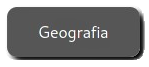
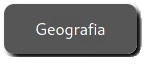
9 botoes colocados e fotos editadas

Changed region(s): [[0.0278, 0.0625, 1.0, 0.9062], [0.25, 0.3438, 0.75, 0.625]]

diff --git a/main.cpp b/main.cpp
@@ -113,12 +113,44 @@ int main(int argc, char *argv[]) {
   sf::Texture girlTexture;
   sf::Texture dialogoTexture;
   sf::Texture botaoHistoriaTexture;
+  sf::Texture botaoPsicologiaTexture;
+  sf::Texture botaoLetrasTexture;
+  sf::Texture botaoFilosofiaTexture;
+  sf::Texture botaoGeografiaTexture;
+  sf::Texture botaoMatematicaTexture;
+  sf::Texture botaoInformaticaTexture;
+  sf::Texture botaoQuimicaTexture;
+  sf::Texture botaoArteTexture;
   sf::Texture botaoHistoriaClicadoTexture;
+  sf::Texture botaoPsicologiaClicadoTexture;
+  sf::Texture botaoLetrasClicadoTexture;
+  sf::Texture botaoFilosofiaClicadoTexture;
+  sf::Texture botaoGeografiaClicadoTexture;
+  sf::Texture botaoMatematicaClicadoTexture;
+  sf::Texture botaoInformaticaClicadoTexture;
+  sf::Texture botaoQuimicaClicadoTexture;
+  sf::Texture botaoArteClicadoTexture;
   sf::Sprite background;
   sf::Sprite girl;
   sf::Sprite dialogo;
   sf::Sprite botao_historia;
+  sf::Sprite botao_psicologia;
+  sf::Sprite botao_letras;
+  sf::Sprite botao_filosofia;
+  sf::Sprite botao_geografia;
+  sf::Sprite botao_matematica;
+  sf::Sprite botao_informatica;
+  sf::Sprite botao_quimica;
+  sf::Sprite botao_arte;
   sf::Sprite botao_historia_clicado;
+  sf::Sprite botao_psicologia_clicado;
+  sf::Sprite botao_letras_clicado;
+  sf::Sprite botao_filosofia_clicado;
+  sf::Sprite botao_geografia_clicado;
+  sf::Sprite botao_matematica_clicado;
+  sf::Sprite botao_informatica_clicado;
+  sf::Sprite botao_quimica_clicado;
+  sf::Sprite botao_arte_clicado;
 
   if (!bgTexture.loadFromFile("./interface/assets/imagens/background.jpg")) {
     cout << "Erro: não foi possível carregar a imagem de background" << endl;
@@ -164,11 +196,112 @@ int main(int argc, char *argv[]) {
     100);
   }
 
-  if(!botaoHistoriaTexture.loadFromFile("./interface/assets/imagens/botoes/botoes_historia.png")){
-    cout << "Erro: não foi possível carregar a imagem da bela moça" << endl;
+  //botao historia
+  if(!botaoHistoriaTexture.loadFromFile("./interface/assets/imagens/botoes/botoes_historia.png")
+  || !botaoHistoriaClicadoTexture.loadFromFile("./interface/assets/imagens/botoes_clicados/botoes_clicados_historia.png")){
+    cout << "Erro: não foi possível carregar a imagem do botão história" << endl;
   }else{
     botao_historia.setTexture(botaoHistoriaTexture);
-    botao_historia.setPosition(400, 600);
+    botao_historia.setPosition(440, 600);
+
+    botao_historia_clicado.setTexture(botaoHistoriaClicadoTexture);
+    botao_historia_clicado.setPosition(440, 600);
+  }
+
+  //botao psicologia
+  if(!botaoPsicologiaTexture.loadFromFile("./interface/assets/imagens/botoes/botoes_psicologia.png")
+  || !botaoPsicologiaClicadoTexture.loadFromFile("./interface/assets/imagens/botoes_clicados/botoes_clicados_psicologia.png")){
+    cout << "Erro: não foi possível carregar a imagem do botão psicologia" << endl;
+  }else{
+    botao_psicologia.setTexture(botaoPsicologiaTexture);
+    botao_psicologia.setPosition(600, 600);
+
+    botao_psicologia_clicado.setTexture(botaoPsicologiaClicadoTexture);
+    botao_psicologia_clicado.setPosition(600, 600);
+  }
+
+  //botao letras
+  if(!botaoLetrasTexture.loadFromFile("./interface/assets/imagens/botoes/botoes_letras.png")
+  || !botaoLetrasClicadoTexture.loadFromFile("./interface/assets/imagens/botoes_clicados/botoes_clicados_letras.png")){
+    cout << "Erro: não foi possível carregar a imagem do botão letras" << endl;
+  }else{
+    botao_letras.setTexture(botaoLetrasTexture);
+    botao_letras.setPosition(770, 600);
+
+    botao_letras_clicado.setTexture(botaoLetrasClicadoTexture);
+    botao_letras_clicado.setPosition(770, 600);
+  }
+
+  //botao filosofia
+  if(!botaoFilosofiaTexture.loadFromFile("./interface/assets/imagens/botoes/botoes_filosofia.png")
+  || !botaoFilosofiaClicadoTexture.loadFromFile("./interface/assets/imagens/botoes_clicados/botoes_clicados_filosofia.png")){
+    cout << "Erro: não foi possível carregar a imagem do botão filosofia" << endl;
+  }else{
+    botao_filosofia.setTexture(botaoFilosofiaTexture);
+    botao_filosofia.setPosition(920, 600);
+
+    botao_filosofia_clicado.setTexture(botaoFilosofiaClicadoTexture);
+    botao_filosofia_clicado.setPosition(920, 600);
+  }
+
+  //botao geografia
+  if(!botaoGeografiaTexture.loadFromFile("./interface/assets/imagens/botoes/botoes_geografia.png")
+  || !botaoGeografiaClicadoTexture.loadFromFile("./interface/assets/imagens/botoes_clicados/botoes_clicados_geografia.png")){
+    cout << "Erro: não foi possível carregar a imagem do botão geografia" << endl;
+  }else{
+    botao_geografia.setTexture(botaoGeografiaTexture);
+    botao_geografia.setPosition(350, botao_historia.getPosition().y + 65);
+
+    botao_geografia_clicado.setTexture(botaoGeografiaClicadoTexture);
+    botao_geografia_clicado.setPosition(350, botao_historia.getPosition().y + 65);
+  }
+
+  //botao matematica
+  if(!botaoMatematicaTexture.loadFromFile("./interface/assets/imagens/botoes/botoes_matematica.png")
+  || !botaoMatematicaClicadoTexture.loadFromFile("./interface/assets/imagens/botoes_clicados/botoes_clicados_matematica.png")){
+    cout << "Erro: não foi possível carregar a imagem do botão matematica" << endl;
+  }else{
+    botao_matematica.setTexture(botaoMatematicaTexture);
+    botao_matematica.setPosition(510, botao_historia.getPosition().y + 65);
+
+    botao_matematica_clicado.setTexture(botaoMatematicaClicadoTexture);
+    botao_matematica_clicado.setPosition(510, botao_historia.getPosition().y + 65);
+  }
+
+  //botao quimica
+  if(!botaoQuimicaTexture.loadFromFile("./interface/assets/imagens/botoes/botoes_quimica.png")
+  || !botaoQuimicaClicadoTexture.loadFromFile("./interface/assets/imagens/botoes_clicados/botoes_clicados_quimica.png")){
+    cout << "Erro: não foi possível carregar a imagem do botão quimica" << endl;
+  }else{
+    botao_quimica.setTexture(botaoQuimicaTexture);
+    botao_quimica.setPosition(685, botao_historia.getPosition().y + 65);
+
+    botao_quimica_clicado.setTexture(botaoQuimicaClicadoTexture);
+    botao_quimica_clicado.setPosition(685, botao_historia.getPosition().y + 65);
+  }
+
+  //botao informatica
+  if(!botaoInformaticaTexture.loadFromFile("./interface/assets/imagens/botoes/botoes_informatica.png")
+  || !botaoInformaticaClicadoTexture.loadFromFile("./interface/assets/imagens/botoes_clicados/botoes_clicados_informatica.png")){
+    cout << "Erro: não foi possível carregar a imagem do botão informatica" << endl;
+  }else{
+    botao_informatica.setTexture(botaoInformaticaTexture);
+    botao_informatica.setPosition(840, botao_historia.getPosition().y + 65);
+
+    botao_informatica_clicado.setTexture(botaoInformaticaClicadoTexture);
+    botao_informatica_clicado.setPosition(840, botao_historia.getPosition().y + 65);
+  }
+
+  //botao arte
+  if(!botaoArteTexture.loadFromFile("./interface/assets/imagens/botoes/botoes_artes.png")
+  || !botaoArteClicadoTexture.loadFromFile("./interface/assets/imagens/botoes_clicados/botoes_clicados_artes.png")){
+    cout << "Erro: não foi possível carregar a imagem do botão arte" << endl;
+  }else{
+    botao_arte.setTexture(botaoArteTexture);
+    botao_arte.setPosition(1010, botao_historia.getPosition().y + 65);
+
+    botao_arte_clicado.setTexture(botaoArteClicadoTexture);
+    botao_arte_clicado.setPosition(1010, botao_historia.getPosition().y + 65);
   }
 
   while (window.isOpen()) {
@@ -234,7 +367,14 @@ int main(int argc, char *argv[]) {
     window.draw(dialogo);
     window.draw(text);
     window.draw(botao_historia);
-    //window.draw(letras_l1.getShape());
+    window.draw(botao_psicologia);
+    window.draw(botao_letras);
+    window.draw(botao_filosofia);
+    window.draw(botao_geografia);
+    window.draw(botao_matematica);
+    window.draw(botao_informatica);
+    window.draw(botao_quimica);
+    window.draw(botao_arte);
     window.display();
   }
 
